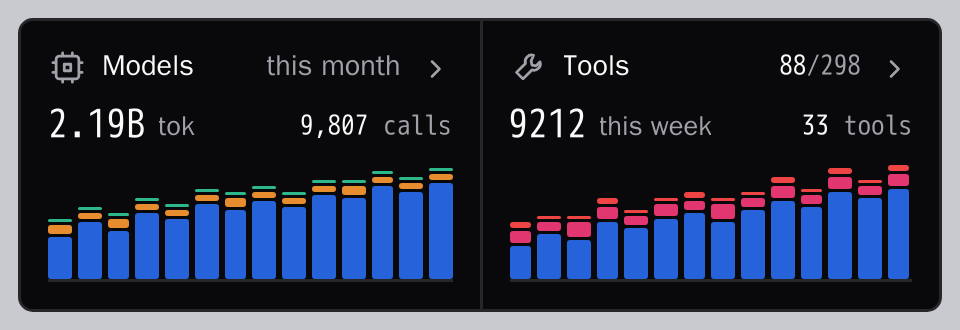
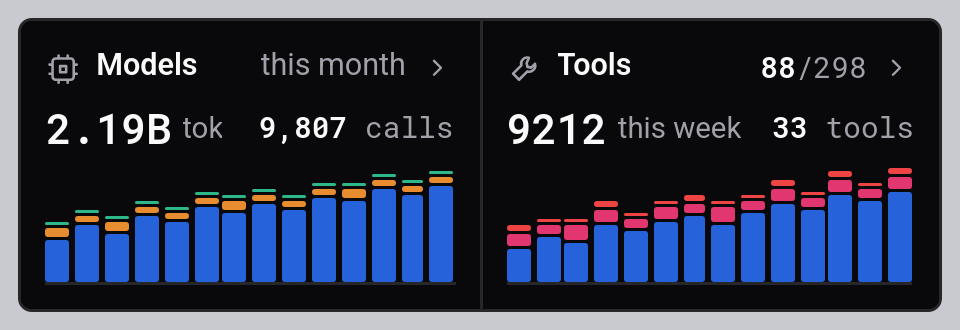
The widget's card grows with the cell instead of sitting small in it
1.9.2. 1.9.1 drew the Chat card at the web's absolute sizes - 11px head,
15px figures, 10.5px asides - and on a 5x2 cell it still read thin: those
numbers are the web's for a card 306 wide, and the widget's halves are 188,
so the type took a smaller share of the frame than the site's does.

The card was measured off the running site rather than by eye: signed in,
/chat at 1440x960, the card is 306x93, its halves 152 and 151 by 91, the
chart 138x34 holding 14 bars of 8px two apart, the head 11/15.95 and the
figures 15 in mono, the padding 9 - the site's own narrow-screen rule.

- Every one of those numbers is now one factor's worth: type, padding, gaps,
  icon, chevron, the card's and the plate's radii and the bars' air are the
  web's multiplied by `k`, so the widget is the web's card scaled, not a
  copy with its own proportions.
- `k` is the room the widest line in the card leaves - "9,212 this week 33
  tools" and the gaps between its parts, measured in the platform's own
  faces at scale 1 (Roboto and Roboto Mono: 142.3px, not the web's IBM
  Plex). A little under 1 at 320dp, which is the web card's own width and
  where the web clips that line and this does not; 1 at 344; 1.15 in a
  390dp cell - a 12.6px head over 17.2px figures with 12.1px asides.
- The chart still takes the height the cell has left, so a taller cell is a
  taller chart and never a band of nothing, and its bars stay the web's
  fractional shares of the width.
[…]

diff --git a/src/widget/StatsWidget.tsx b/src/widget/StatsWidget.tsx
@@ -28,25 +28,35 @@ import { colors, widgetGround } from '../theme/tokens';
 import type { WidgetSnapshot } from './data';
 
 /**
- * The web card's own numbers (cc-usage.ts / cc-tools.ts / charts.ts): an 11px
- * head, a 15px figure with 10.5px asides, 7px padding on a wide screen and 9
- * on a narrow one, the head's 4px gap, a 5px card radius, a 34px chart. They
- * are absolute, not proportional: a wider card does not get bigger words on the
- * web, and it must not here either or the Tools card's "9,212 this week" and
- * "33 tools" stop fitting side by side.
+ * The card as the web draws it on a phone, read off the site in a browser
+ * (cc-usage.ts / cc-tools.ts / charts.ts): an 11px head, a 15px figure with
+ * 10.5px asides, 9px padding on a narrow screen, the head's 5px gap, a 13px
+ * icon, a 12px chevron, a 5px card radius inside a plate at 14, and 14 bars
+ * two px apart on the 1px line. These are the web's numbers at the width the
+ * web card itself has, and `metrics` multiplies all of them by one factor.
  */
-const HEAD_FONT = 11;
-const FIG_FONT = 15;
-const SMALL_FONT = 10.5;
+const WEB = {
+  head: 11,
+  fig: 15,
+  aside: 10.5,
+  pad: 9,
+  gap: 4,
+  headGap: 5,
+  icon: 13,
+  chev: 12,
+  radius: 5,
+  plateRadius: 14,
+  barGap: 2,
+};
 /** Body is 13px/1.45 and the cards inherit it; the figures' `font:` shorthand resets theirs to normal, 1.28 in the web's own face. */
 const TEXT_LINE = 1.45;
 const FIG_LINE = 1.28;
 /**
- * The widest figure row the two cards ask for - "9,212" + "this week" + "33
- * tools" with its gaps, 148.4px in the web's face. 152 leaves room for a face
- * that is a hair wider, and below it the type shrinks to fit rather than clip.
+ * The room the widest figure row asks for - "9,212" + "this week" + "33 tools"
+ * with the gaps between them, measured in the platform's own faces (Roboto and
+ * Roboto Mono, not the web's IBM Plex) at the card's own scale of 1.
  */
-const FIG_ROW = 152;
+const FIG_ROW = 142.3;
 
 /** The theme's colours are strings; the widget's own type wants a `#` or an `rgba()`. */
 const paint = (colour: string) => colour as ColorProp;
@@ -103,17 +113,21 @@ interface Metrics {
 
 function metrics(w: number, h: number): Metrics {
   const pad = 6; // the web's `.ccl-wrap` margin round the card, now the plate's
-  const cardPad = 9; // `.ccl` padding on a narrow screen - what a phone sees
-  const gap = 4;
-  // A half's room inside the plate, the card's two borders and its own padding.
+  // A half's room inside the plate and the card's own borders.
   const half = (w - 2 * pad - 2) / 2;
-  const innerLeft = half - 2 * cardPad;
-  const innerRight = half - 1 - 2 * cardPad;
-  // The web's sizes, given up only where the card is too narrow to hold the figure row.
-  const s = Math.max(0.72, Math.min(1, (innerRight - 2) / FIG_ROW));
-  const headFont = Math.round(HEAD_FONT * s * 10) / 10;
-  const figFont = Math.round(FIG_FONT * s * 10) / 10;
-  const smallFont = Math.round(SMALL_FONT * s * 10) / 10;
+  /**
+   * The card is the web's, enlarged only as far as its widest line still fits:
+   * a little under 1 at the width the web card itself has (where the web clips
+   * that line and this does not), 1 at 344dp, 1.15 in a 5x2 cell of 390 - so a
+   * bigger frame gets a bigger card rather than the web's 11px in a wide hole.
+   */
+  const k = Math.max(0.75, Math.min(1.4, (half - 4) / (FIG_ROW + 2 * WEB.pad)));
+  const of = (v: number) => Math.round(v * k * 10) / 10;
+  const cardPad = Math.round(WEB.pad * k * 10) / 10;
+  const gap = Math.round(WEB.gap * k * 10) / 10;
+  const headFont = of(WEB.head);
+  const figFont = of(WEB.fig);
+  const smallFont = of(WEB.aside);
   // The web's own line boxes, unrounded: 11 x 1.45 = 15.95, 15 x 1.28 = 19.2.
   const headLine = Math.round(headFont * TEXT_LINE * 100) / 100;
   const figLine = Math.round(figFont * FIG_LINE * 100) / 100;
@@ -121,7 +135,7 @@ function metrics(w: number, h: number): Metrics {
   // chart is the rest, so a taller cell is a taller chart, not a band of nothing.
   const chart = Math.max(16, Math.round(h - 2 * pad - 2 - 2 * cardPad - headLine - figLine - 2 * gap));
   return {
-    s,
+    s: k,
     pad,
     cardPad,
     gap,
@@ -131,16 +145,16 @@ function metrics(w: number, h: number): Metrics {
     headLine,
     figLine,
     smallLine: Math.round(smallFont * TEXT_LINE * 100) / 100,
-    icon: 13,
-    chev: 12,
-    radius: 5,
-    plateRadius: 14,
+    icon: Math.round(WEB.icon * k * 10) / 10,
+    chev: Math.round(WEB.chev * k * 10) / 10,
+    radius: Math.round(WEB.radius * k * 10) / 10,
+    plateRadius: Math.round(WEB.plateRadius * k * 10) / 10,
     chart,
-    barGap: 2,
-    innerLeft,
-    innerRight,
-    headGap: 5,
-    figGap: 4,
+    barGap: Math.round(WEB.barGap * k * 10) / 10,
+    innerLeft: half - 2 * cardPad,
+    innerRight: half - 1 - 2 * cardPad,
+    headGap: Math.round(WEB.headGap * k * 10) / 10,
+    figGap: gap,
   };
 }
 

diff --git a/README.md b/README.md
@@ -99,11 +99,17 @@ Then you sign in with the same e-mail address and password as on the web.
   the screen hands the widget each reading as it takes one, and Android
   redraws it on its own every thirty minutes. A phone with no network at
   that moment keeps the last reading it had rather than showing an empty
-  frame. It is drawn at the web card's own sizes - 11px head, 15px
-  figures, 10.5px asides, 9px padding, the same hairline and bars - and only
-  the chart takes the height the cell has left, so a cell of 320x110 and one
-  of 390x200 read the same and neither leaves a band of nothing. A cell
-  narrower than a phone's shrinks the type to fit rather than spilling. It
+  frame. The card is the site's, measured off it in a browser rather than
+  guessed: an 11px head over 15px figures and 10.5px asides, 9px padding on
+  a phone, gaps of 4, the plate at radius 14 and the card at 5. Those are the
+  web's numbers at the width the web card has, and one factor - the room its
+  widest line, "9,212 this week 33 tools", leaves - multiplies all of them at
+  once (1.9.2). A little under 1 at 320, the width the web card itself has,
+  where the web clips that line and the widget does not; 1 at 344 and 1.15 in
+  a 5x2 cell of 390, so a bigger frame gets a bigger card instead of 11px left
+  small in it. Only the chart takes the height the cell has left, so a cell of
+  320x110 and one of 390x200 both read and neither leaves a band of nothing;
+  a narrower cell shrinks the type to fit rather than spilling. It
   says the web card's own words, piece for piece - the figures with their
   small words beside them, "88/298", the tools that are on out of all of
   them, read from the same route the Tools page reads - and the icons are
